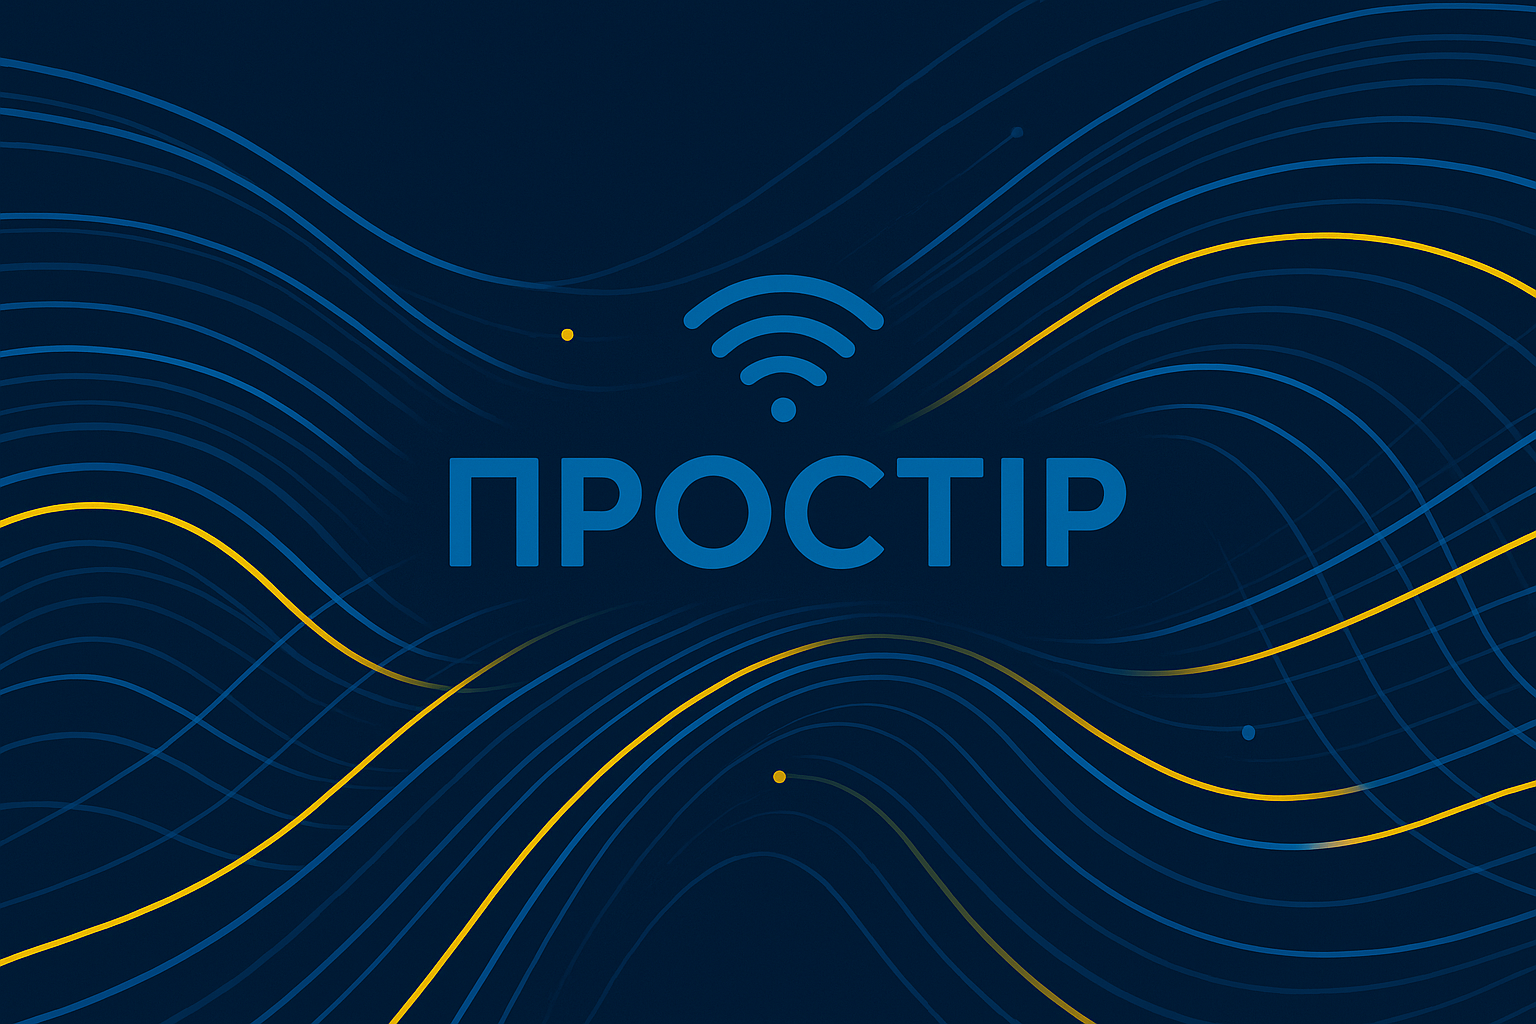
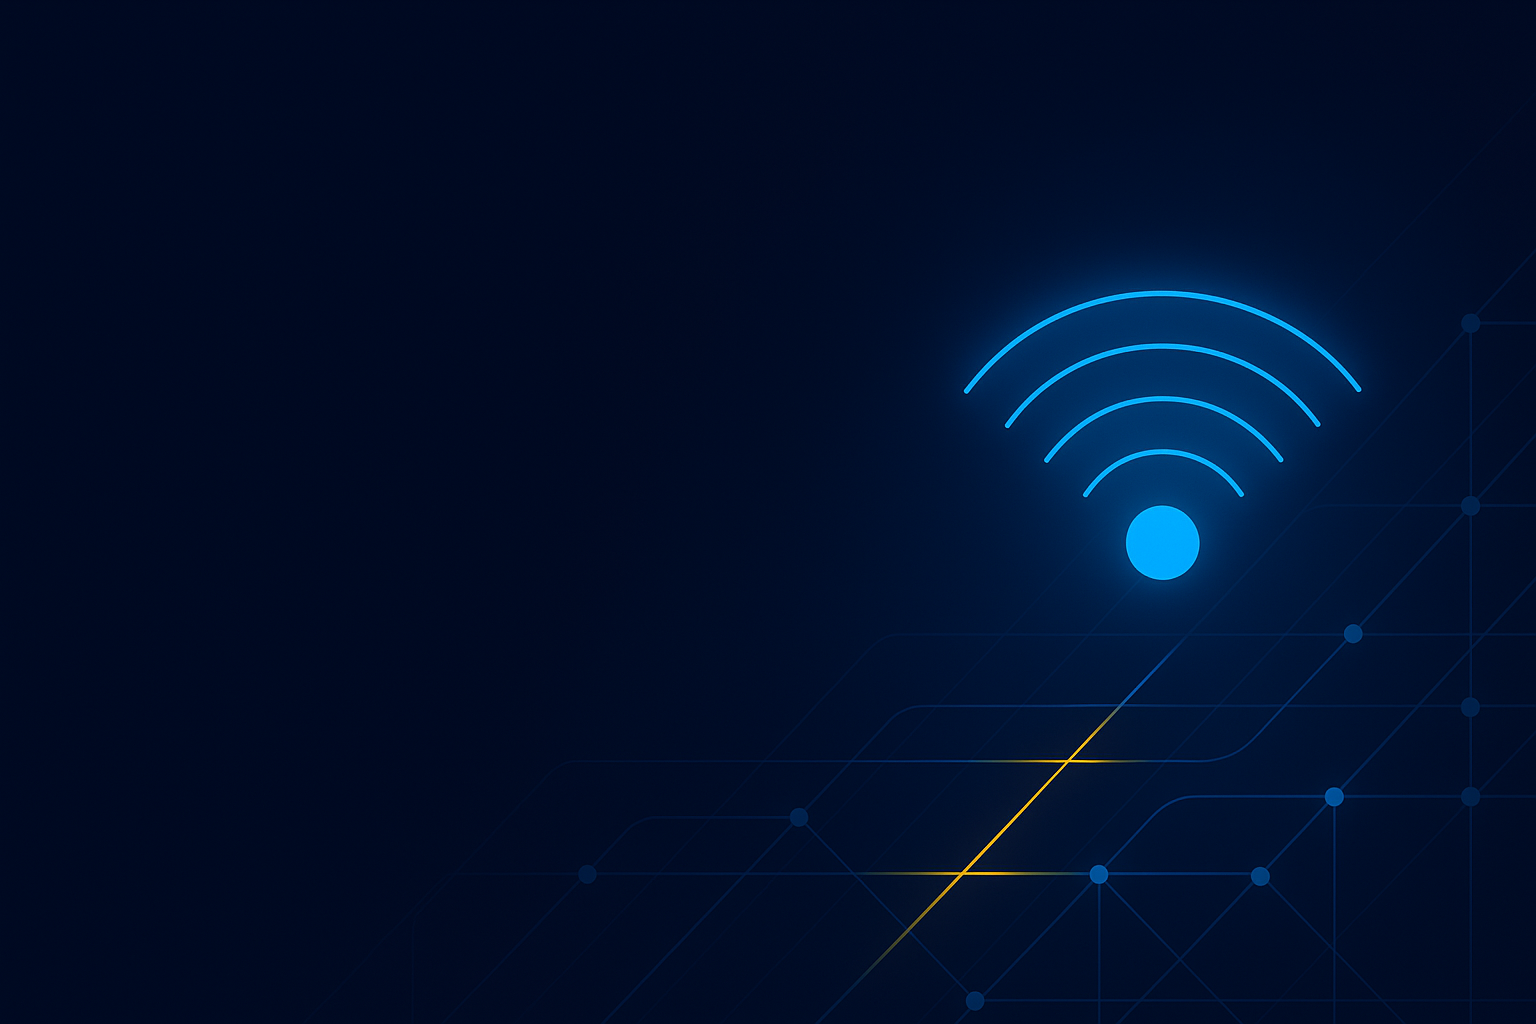
feat: convert prostir.png to background image with Wi-Fi symbol and badge
- Replace image element with CSS background-image for prostir.png
- Add animated Wi-Fi symbol (📶) positioned on the right side
- Create connection badge 'Онлайн 24/7' on the left side
- Add gradient overlay for better text visibility
- Include pulse animation for Wi-Fi symbol
- Implement backdrop-filter blur effect for modern look
- Maintain responsive design across all screen sizes
- Add space-between layout for left content and Wi-Fi symbol

diff --git a/src/components/Hero.css b/src/components/Hero.css
@@ -106,23 +106,70 @@
   position: relative;
   width: 300px;
   height: 300px;
-  display: flex;
-  align-items: center;
-  justify-content: center;
-}
-
-.prostir-image {
-  width: 100%;
-  height: 100%;
-  object-fit: contain;
+  background-size: cover;
+  background-position: center;
+  background-repeat: no-repeat;
   border-radius: 16px;
   box-shadow: 0 8px 30px rgba(44, 90, 160, 0.2);
   transition: all 0.3s ease;
+  overflow: hidden;
 }
 
-.prostir-image:hover {
+.hero-visual:hover {
   transform: scale(1.05);
   box-shadow: 0 12px 40px rgba(44, 90, 160, 0.3);
+}
+
+.hero-overlay {
+  position: absolute;
+  top: 0;
+  left: 0;
+  right: 0;
+  bottom: 0;
+  background: linear-gradient(135deg, rgba(44, 90, 160, 0.1) 0%, transparent 60%);
+  display: flex;
+  align-items: flex-end;
+  justify-content: space-between;
+  padding: 1rem;
+}
+
+.left-content {
+  display: flex;
+  flex-direction: column;
+  align-items: flex-start;
+}
+
+.connection-badge {
+  background: rgba(255, 255, 255, 0.9);
+  border: 2px solid var(--primary-color);
+  border-radius: 20px;
+  padding: 0.5rem 1rem;
+  backdrop-filter: blur(10px);
+  box-shadow: 0 4px 12px rgba(44, 90, 160, 0.2);
+}
+
+.connection-text {
+  color: var(--primary-color);
+  font-weight: 600;
+  font-size: 0.9rem;
+}
+
+.wifi-symbol {
+  font-size: 2rem;
+  color: var(--primary-color);
+  text-shadow: 0 2px 8px rgba(255, 255, 255, 0.8);
+  animation: pulse-wifi 2s infinite;
+}
+
+@keyframes pulse-wifi {
+  0%, 100% {
+    transform: scale(1);
+    opacity: 0.8;
+  }
+  50% {
+    transform: scale(1.1);
+    opacity: 1;
+  }
 }
 
 @media (max-width: 768px) {
@@ -164,10 +211,23 @@
   .hero-visual {
     width: 200px;
     height: 200px;
+    border-radius: 12px;
   }
   
-  .prostir-image {
-    border-radius: 12px;
+  .wifi-symbol {
+    font-size: 1.5rem;
+  }
+  
+  .hero-overlay {
+    padding: 0.75rem;
+  }
+  
+  .connection-badge {
+    padding: 0.4rem 0.8rem;
+  }
+  
+  .connection-text {
+    font-size: 0.8rem;
   }
   
   .hero-actions {
@@ -217,10 +277,30 @@
   .hero-visual {
     width: 150px;
     height: 150px;
+    border-radius: 8px;
   }
   
-  .prostir-image {
-    border-radius: 8px;
+  .wifi-symbol {
+    font-size: 1.2rem;
+  }
+  
+  .hero-overlay {
+    padding: 0.5rem;
+    flex-direction: column;
+    align-items: center;
+    justify-content: space-between;
+  }
+  
+  .left-content {
+    align-items: center;
+  }
+  
+  .connection-badge {
+    padding: 0.3rem 0.6rem;
+  }
+  
+  .connection-text {
+    font-size: 0.75rem;
   }
   
   .hero-actions {

diff --git a/src/components/Hero.tsx b/src/components/Hero.tsx
@@ -39,12 +39,18 @@ const Hero: React.FC = () => {
             </div>
           </div>
           <div className="hero-image">
-            <div className="hero-visual">
-              <img 
-                src={prostirImg} 
-                alt="Простір - інтернет провайдер" 
-                className="prostir-image"
-              />
+            <div 
+              className="hero-visual"
+              style={{ backgroundImage: `url(${prostirImg})` }}
+            >
+              <div className="hero-overlay">
+                <div className="left-content">
+                  <div className="connection-badge">
+                    <span className="connection-text">Онлайн 24/7</span>
+                  </div>
+                </div>
+                <div className="wifi-symbol">📶</div>
+              </div>
             </div>
           </div>
         </div>
